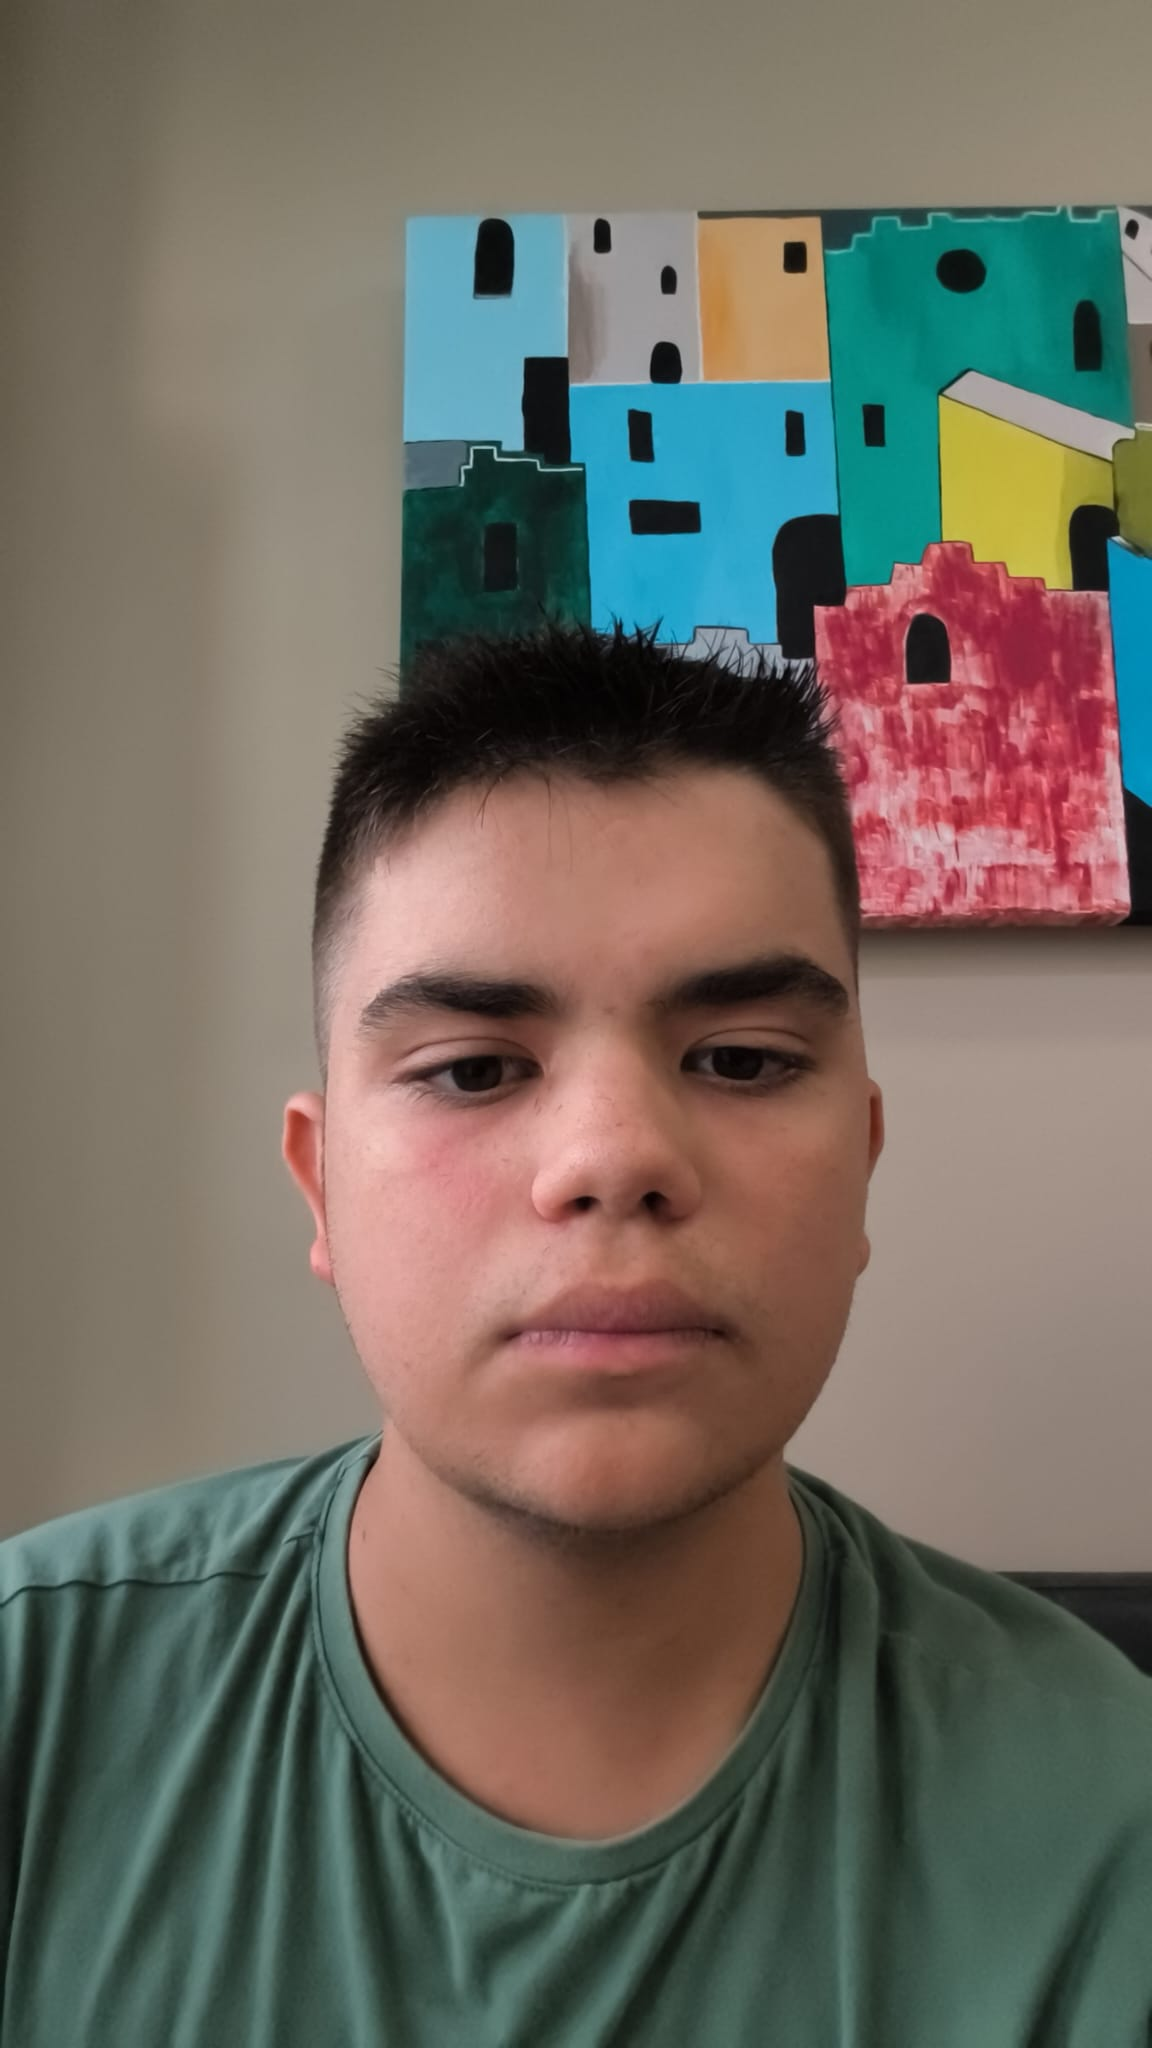
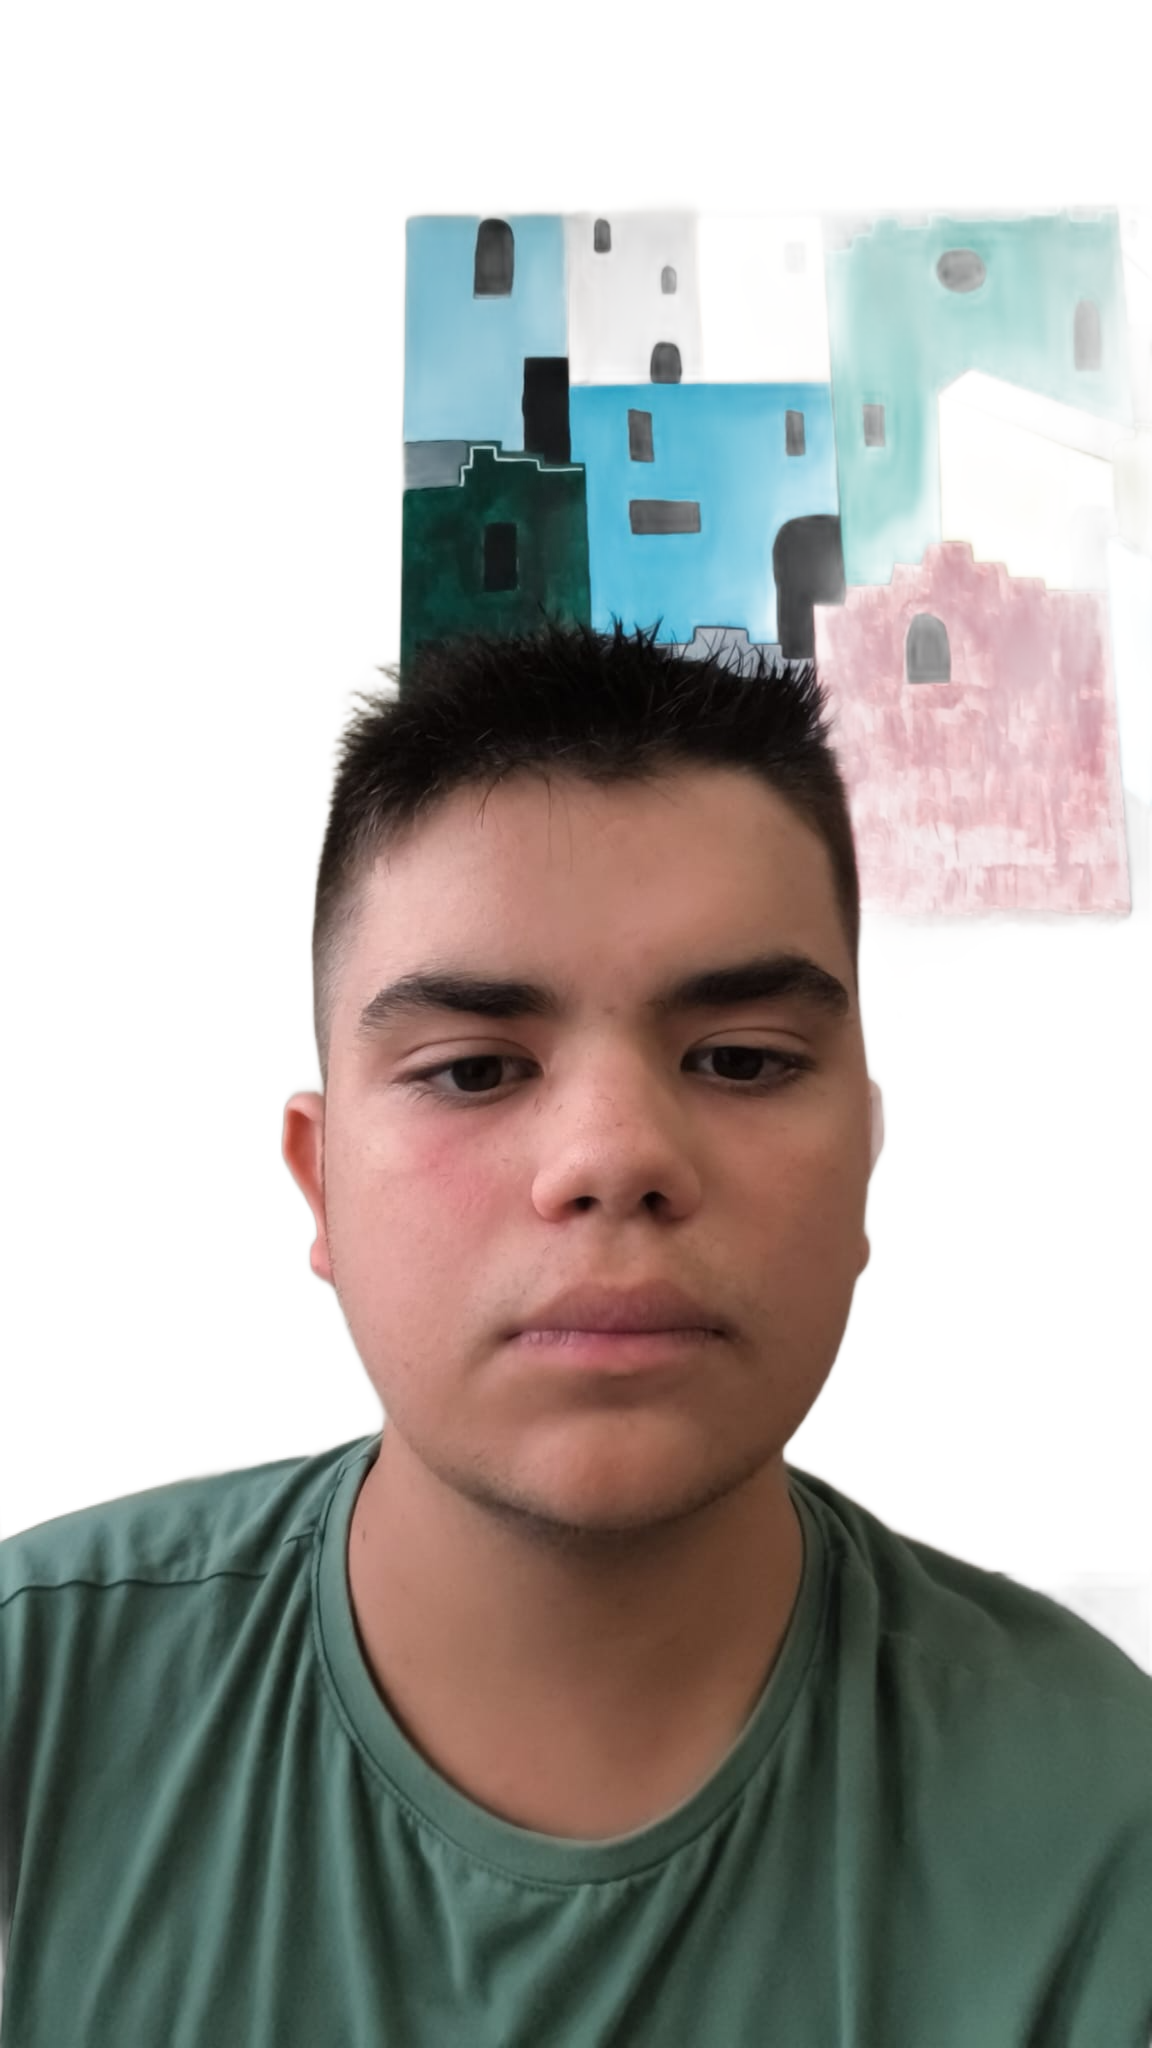
Cutout data/grupoinventado/blingyourver.json (quitar fondo)

diff --git a/js/ranking.js b/js/ranking.js
@@ -4,7 +4,7 @@
 /* ========================================= */
 
 /* Bump when the avatar images change, to bust the browser/Pages cache. */
-const PHOTO_VER = 184;
+const PHOTO_VER = 185;
 window.PHOTO_VER = PHOTO_VER;
 
 const Ranking = {
